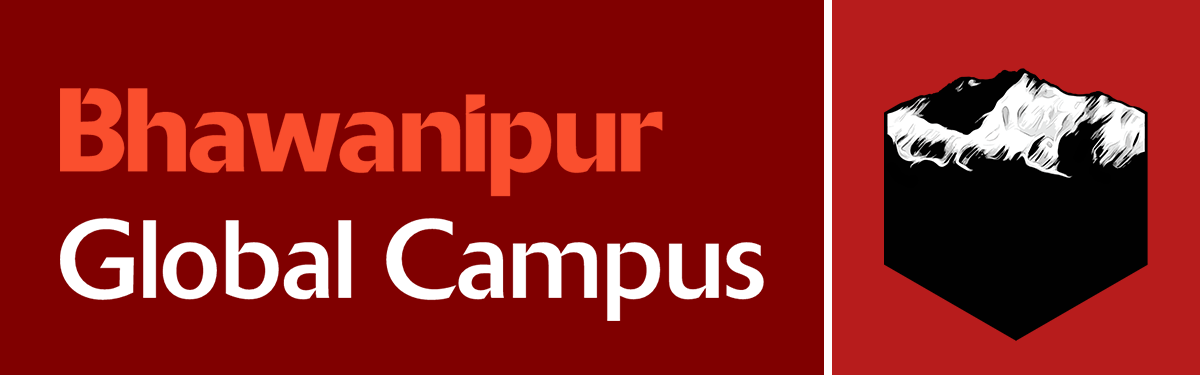
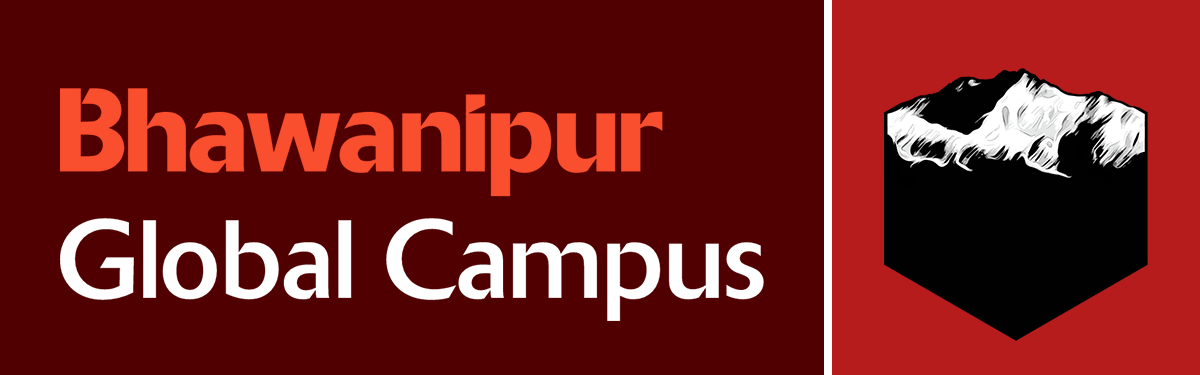
.

diff --git a/athenaeum/src/app/(public)/page.tsx b/athenaeum/src/app/(public)/page.tsx
@@ -1,6 +1,6 @@
 "use client";
 
-import { APP_NAME, BGC_HEX, NAV_ITEMS, ArrowForwardRoundedIcon } from "@/app/AthenaeumMaster";
+import { APP_NAME, BGC_HEX_M, NAV_ITEMS, ArrowForwardRoundedIcon, BGC_HEX_O } from "@/app/AthenaeumMaster";
 import { Box, Card, CardActionArea, CardContent, Grid, Stack, Typography } from "@mui/material";
 import Link from "next/link";
 
@@ -9,14 +9,13 @@ import Link from "next/link";
 
 export default function HomePage() {
 	  return <Stack spacing={ { xs: 4, md: 5 } }>
-			 <Box sx={ { position: "relative", overflow: "hidden", p: { xs: 3, sm: 5, md: 7 }, borderRadius: 4, border: 1, borderColor: "divider", background: `radial-gradient(ellipse at top right, ${ BGC_HEX }99 0%, #000000 50%)`, color: "#ffffff", minHeight: { xs: 300, md: 360 }, display: "flex", alignItems: "center" } }>
+			 <Box sx={ { position: "relative", overflow: "hidden", p: { xs: 3, sm: 5, md: 7 }, borderRadius: 4, border: 1, borderColor: "divider", background: BGC_HEX_M, color: "#ffffff", minHeight: { xs: 300, md: 360 }, display: "flex", alignItems: "center" } }>
 					<Stack spacing={ 2.5 } maxWidth={ "md" } sx={ { position: "relative", zIndex: 1 } }>
-						  <Typography variant={ "overline" } sx={ { fontWeight: 800, letterSpacing: "0.16em", color: "rgba(255,255,255,0.72)" } }>{ APP_NAME }</Typography>
-						  <Typography variant={ "h1" } sx={ { fontSize: { xs: 36, sm: 48, md: 60 }, lineHeight: 1.1, letterSpacing: "-0.035em" } }>
-								 { "Your MCA studies, organised in one place." }
+						  <Typography variant={ "h1" } color={ BGC_HEX_O } sx={ { fontSize: { xs: 36, sm: 48, md: 60 }, lineHeight: 1.1, letterSpacing: "-0.035em" } }>
+								 { "Your BGC days, organised in one place." }
 						  </Typography>
-						  <Typography variant={ "h6" } sx={ { lineHeight: 1.8, color: "rgba(255,255,255,0.78)", maxWidth: 680 } }>
-								 { "Explore subject-wise study material, read individual topics, access subject-level downloads, and find the source code for the MCA monorepo." }
+						  <Typography variant={ "h5" } sx={ { lineHeight: 1.8, maxWidth: 680 } }>
+								 { "Explore subject-wise study material, read individual topics, and access subject-level downloads." }
 						  </Typography>
 					</Stack>
 			 </Box>

diff --git a/athenaeum/src/app/AthenaeumMaster.tsx b/athenaeum/src/app/AthenaeumMaster.tsx
@@ -112,7 +112,8 @@ export {
 export const APP_NAME = "Athenaeum";
 export const APP_TAGLINE = "BGCites' Buddy";
 export const BGC_NAME = "Bhawanipur Global Campus";
-export const BGC_HEX = "#800000";
+export const BGC_HEX_M = "#500000";
+export const BGC_HEX_O = "#FF8000";
 export const DEV_NAME = "Arnab Pal";
 export const GITHUB_REPOSITORY_URL = "https://github.com/learnabpal/MCA";
 export const HISTORY_KEY = "athenaeum-local-history";
